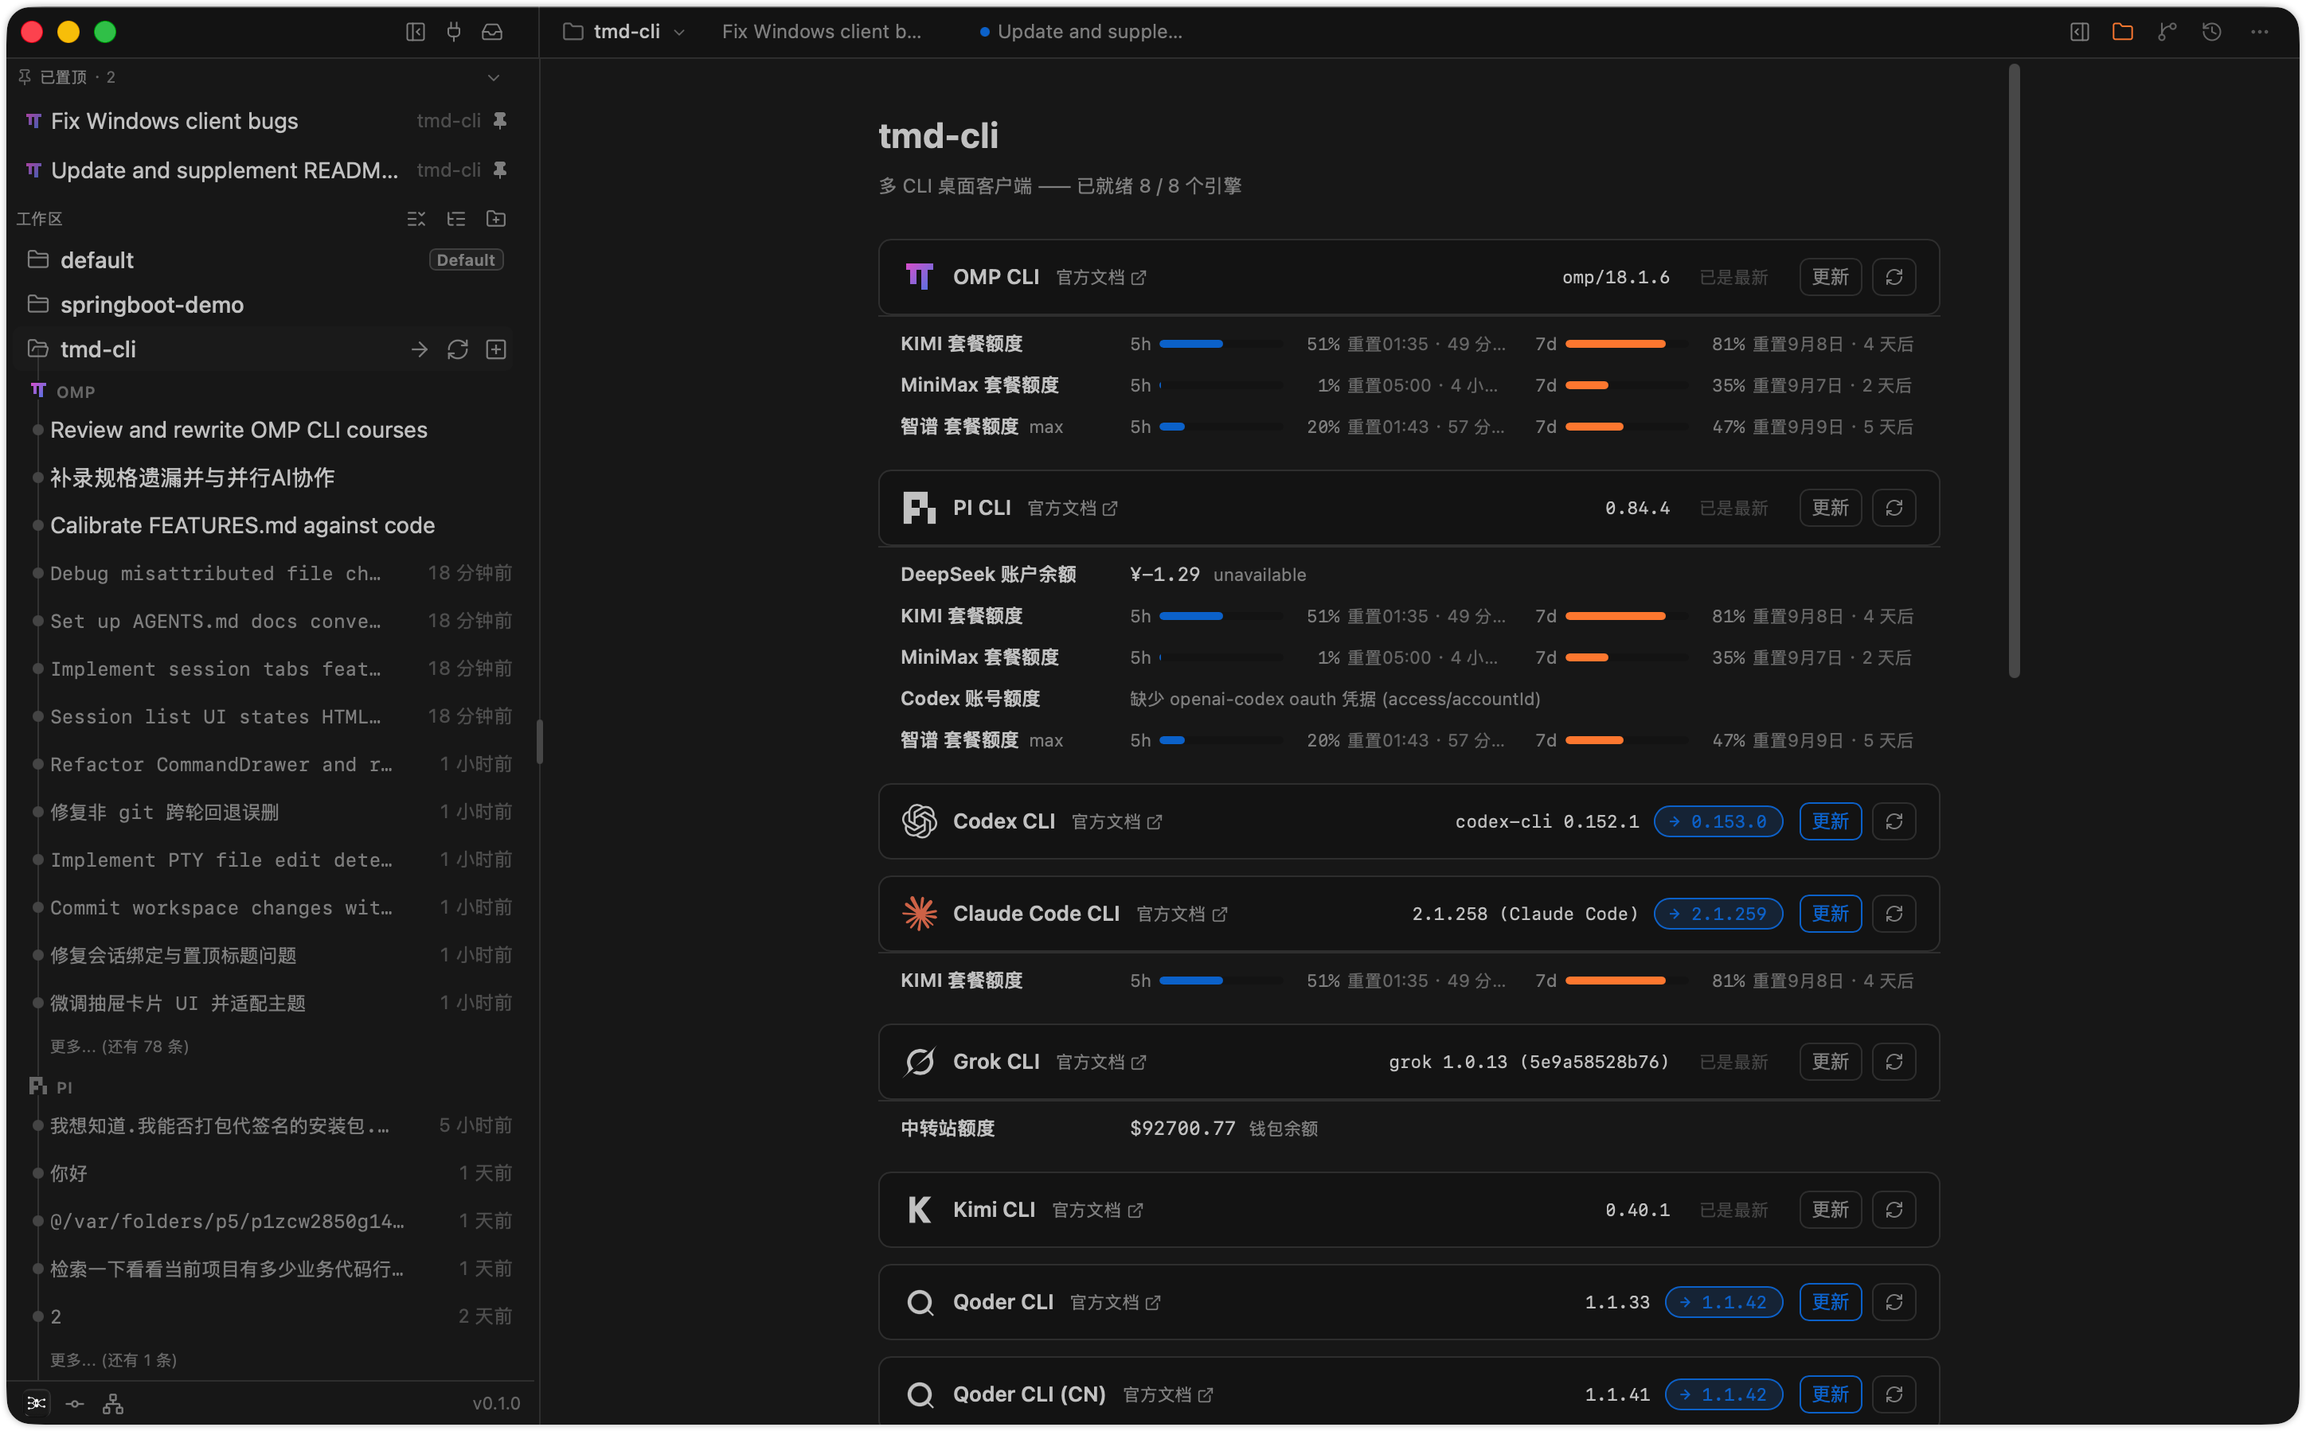
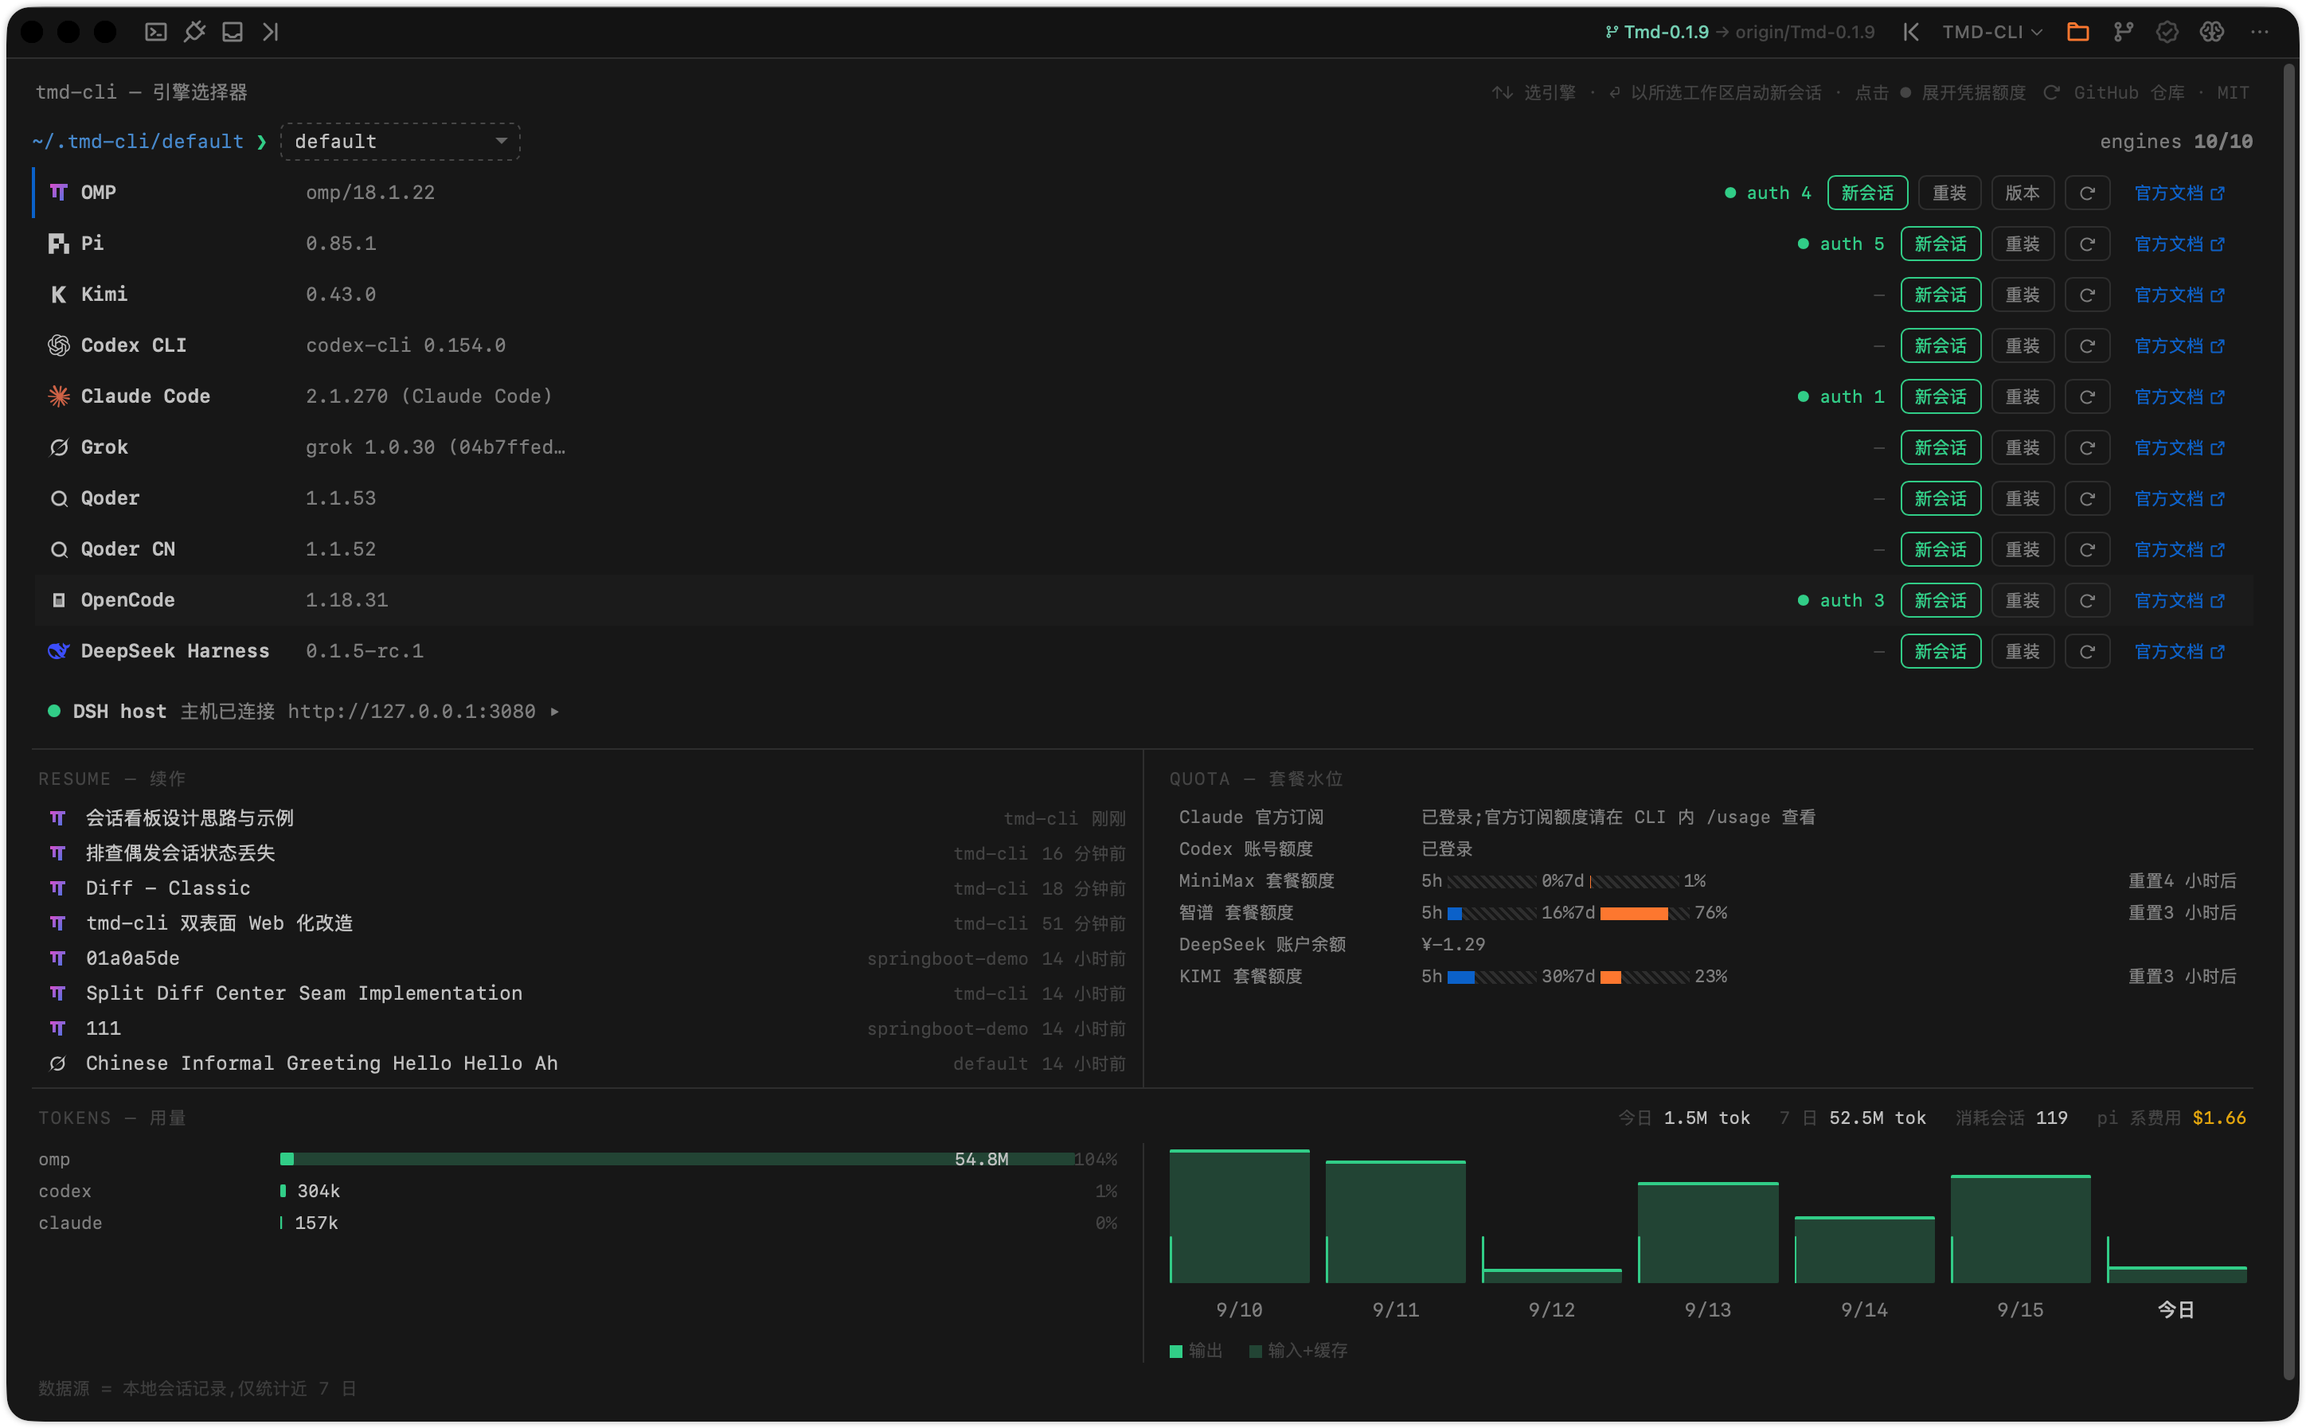
docs(readme): 欢迎页改版同步引擎选择器描述,FEATURES 补校与新截图入库

diff --git a/README_EN.md b/README_EN.md
@@ -59,7 +59,7 @@ In one sentence: **CLI output is presented as-is; the input side gets the rich e
 
 ![Per-CLI configuration](docs/images/screenshot-cli-config.png)
 
-**Welcome page** — engine cards (CLI probe / version check with one-click update / official docs links) + multi-provider quota overview
+**Welcome page (engine selector)** — terminal-window layout: a workspace prompt row + full-action engine rows (version probe / credential ● quota expand / new session / reinstall / version rollback / official docs), footer with RESUME recent sessions / QUOTA plan levels / TOKENS 7-day usage
 
 ![Welcome page](docs/images/screenshot-welcome.png)
 
@@ -85,7 +85,7 @@ In one sentence: **CLI output is presented as-is; the input side gets the rich e
 - **First-class SSH sessions**: russh engine, output isomorphic with PTY sessions straight into the curtain (tab strip / buffer / pagination with zero divergence); the right rail hosts connection cards / local port forwarding (-L) / SFTP remote file tree; remote files open in editor tabs (mtime+size optimistic concurrent write-back); known_hosts trust cards, reconnect with backoff, HTTP CONNECT / SOCKS5 proxies; host book and `~/.ssh/config` import live in settings.
 - **WSL support (M1)**: dual form — local distros (UNC workspace + `wsl.exe` spawn wrapping) and remote Windows hosts over the SSH channel (b64 payloads); engine probes / remote history / status observation / `wslr://` read-only file channel; the Git panel and checkpoints degrade with explicit hints by kind, never silently.
 - **File tree & editor**: single-level lazy file tree + right-click write operations (new / rename / trash / reveal in Finder); CodeMirror 6 central tab editor (⌘S save, dirty marker, per-extension lazy language packs); file render profiles: images / PDF / spreadsheets (csv·xlsx) / docx (mammoth conversion + outline) / structured previews, binaries show a placeholder; file tab context menu and editor maximize toggle; Markdown preview (GFM + KaTeX math + Mermaid diagrams + outline popover + progressive rendering).
-- **Welcome page**: engine cards (CLI probe + one-click install with streaming logs + npm registry version check with one-click update), credential overview (logged-in providers and quotas), quick entry into recent sessions.
+- **Welcome page (engine selector)**: a terminal-window home shown when no session is active — ↑↓ picks an engine, ⏎ starts a new session in the selected workspace, clicking ● expands credential quotas; full-action engine rows (CLI probe + prerequisite gating, one-click install with streaming logs, npm registry version check with one-click update, version rollback menu with the latest 10 stable versions and pinned favorites, official docs links); three footer sections: RESUME (latest 8 disk sessions across all workspaces × installed CLIs, click to resume) / QUOTA (per-provider aggregated plan levels with reset countdown) / TOKENS (per-engine usage + 7-day chart, sourced from local session records).
 - **Built-in terminal**: one click in the header's left area spawns a local default shell session (kind=shell, the third first-class session kind); curtain / tab strip / buffer / pagination fully reused; lifecycle owned by the kernel — unplugging the plugin never orphans sessions.
 - **Global shortcuts**: kernel command registry + per-scope dispatch (global / pty / composer), visual rebinding in settings (record / reset / conflict detection); macOS splits by ⌘ only, Ctrl+M/N/P/W etc. pass through to the PTY untampered.
 - **Memory coordination (memory-coordinator)**: integrates the Magic Context external shared memory store (`~/.magic-context` SQLite, shared across CLI hosts, the app never writes directly); right-rail Memory panel (FTS keyword search + per-category filters: project rules / architecture / constraints / config values) + status-bar Memory pill + console central tab; phase-two auto-distillation is opt-in.
@@ -191,7 +191,7 @@ Issues and PRs welcome:
 
 ## Current status
 
-Landed: plugin host & plugin market (27 registered plugins: 10 CLI engines + 13 UI features + 3 core + local plugin loader), ten CLI profiles (omp/pi/kimi/codex/claude/grok/qoder/qoder-cn/dsh/opencode) + first-class SSH sessions (russh) + built-in terminal (kind=shell), full PTY lifecycle & rotating session output logs with pagination, xterm curtain, workspace FLUX timeline session list (breathing lights/status labels/pinning/budget pagination/custom groups), top session tab strip with tile display, full composer (triggers/drag-drop/screenshots/command drawer v3/message anchor bar/quota/bracketed-paste, completions sourced from the CLIs themselves), agent/prompt asset library (!! / ## consumption), per-CLI configuration (visual editing of CLI config files, model role routing / wall-hit fallback chains), local plugins (~/.tmd-cli/plugins/ hot-load / build via conversation / version rollback), Ask confirmation detection (byte-stream + screen-state dual channel) with dual sounds, full right-rail Git panel (diff/branch/graph history/commit diff central tabs (dual-pane)/remote fetch/pull/push/three-zone drag-select batch ops & untracked deletion), file tree + CodeMirror editor + file render profiles (images/PDF/spreadsheets/docx/structured) + Markdown preview, file tab context menu & editor maximize, checkpoints (ledger: dual attribution/revert/apply/undo/shadow object store), theme engine (31 VS Code presets), global UI font size & zoom, network proxy, welcome engine cards & credential overview, read-only session status bar, global shortcuts with visual rebinding, version popover with auto-update, memory coordination (Memory panel with FTS search / pill / console), branch context menu & remote operation dialogs, session tab context menu, WSL support (local UNC + remote SSH host M1: connect/sessions/history/status/read-only file channel), workspace wallpaper (local gallery + fluid shader, surface-token punch-through & translucent curtain), omp disk-session prewarm takeover for instant open, dsh streaming session output.
+Landed: plugin host & plugin market (27 registered plugins: 10 CLI engines + 13 UI features + 3 core + local plugin loader), ten CLI profiles (omp/pi/kimi/codex/claude/grok/qoder/qoder-cn/dsh/opencode) + first-class SSH sessions (russh) + built-in terminal (kind=shell), full PTY lifecycle & rotating session output logs with pagination, xterm curtain, workspace FLUX timeline session list (breathing lights/status labels/pinning/budget pagination/custom groups), top session tab strip with tile display, full composer (triggers/drag-drop/screenshots/command drawer v3/message anchor bar/quota/bracketed-paste, completions sourced from the CLIs themselves), agent/prompt asset library (!! / ## consumption), per-CLI configuration (visual editing of CLI config files, model role routing / wall-hit fallback chains), local plugins (~/.tmd-cli/plugins/ hot-load / build via conversation / version rollback), Ask confirmation detection (byte-stream + screen-state dual channel) with dual sounds, full right-rail Git panel (diff/branch/graph history/commit diff central tabs (dual-pane)/remote fetch/pull/push/three-zone drag-select batch ops & untracked deletion), file tree + CodeMirror editor + file render profiles (images/PDF/spreadsheets/docx/structured) + Markdown preview, file tab context menu & editor maximize, checkpoints (ledger: dual attribution/revert/apply/undo/shadow object store), theme engine (31 VS Code presets), global UI font size & zoom, network proxy, welcome page engine selector (full-action rows / RESUME / QUOTA / TOKENS), read-only session status bar, global shortcuts with visual rebinding, version popover with auto-update, memory coordination (Memory panel with FTS search / pill / console), branch context menu & remote operation dialogs, session tab context menu, WSL support (local UNC + remote SSH host M1: connect/sessions/history/status/read-only file channel), workspace wallpaper (local gallery + fluid shader, surface-token punch-through & translucent curtain), omp disk-session prewarm takeover for instant open, dsh streaming session output.
 
 In progress: command drawer on-device acceptance (5 `[V]` items left, openspec/changes/composer-command-drawer) and CLI interactive compatibility verification; the git "create PR" workflow is being implemented (spec: docs/superpowers/specs/2026-09-15-git-create-pr-design.md); all other change contracts are archived under `openspec/changes/archive/`.
 

diff --git a/docs/FEATURES.md b/docs/FEATURES.md
@@ -15,6 +15,7 @@
 > 2026-09-10 0.1.4 补校:本地插件系统(~/.tmd-cli/plugins 磁盘装载、对话即变热加载、SHA-256 信任闸 + API 纪元闸、版本历史回退)与插排页本机插件独立成排;checkpoints 工作区外写入事件入账;插件计数 22→23(10 engine / 9 feature / 3 core / 1 local)。
 > 2026-09-11 会话 tab 平铺显示 + 平铺广播开关:右键菜单全局开关(参照 codeg tile),打开的 tab 并排同屏点列即切,composer 喇叭开关开启后正常发送即广播到全部平铺幕布;横评广播插件实施后验收否决已整体拆除(spec 留档「已废弃」)。
 > 2026-09-12/13 补校:WSL 支持 M1、工作区壁纸(图库+流体)、应用内自动更新(updater 签名通道)、omp 历史会话预热秒开(onAcquired 早激活)、dsh 会话流式输出、Git 差异三区拖选批量与未跟踪删除、pull 分叉 rebase 兜底、回首页⇄回会话 toggle、欢迎页 SWR 缓存与手动全量刷新;插件计数 23→27(10 engine / 13 feature / 3 core / 1 local)。
+> 2026-09-16 欢迎页改版补校:终端窗体造型引擎选择器(标题条 / prompt 行工作区选择 / 键盘 ↑↓⏎)、引擎全动作行(凭据 ● 展开额度 / 新会话 / 安装更新重装 / 单行重探 / 官方文档)、omp 版本回退菜单(最新 10 个稳定版 + 收藏钉版)、前置依赖门控、页脚 RESUME(全工作区倒序 8 条)/ QUOTA(供应商聚合 + 重置倒计时)/ TOKENS(本地 usage 聚合 + 近 7 日双段柱)。
 
 ## 工作区会话
 
@@ -312,16 +313,19 @@
 
 ## 欢迎页
 
-- 引擎卡:CLI 探针(found/path/version,8s 超时)+ 一键安装(npm -g / claude native,流式日志保留尾部 200 行,300s 超时,成功自动重探)
-- 版本检查:引擎卡查 npm registry 最新版(5 分钟缓存),落后显示「→ 最新版」一键更新
-- 引擎卡附件:官方文档外链(docsUrl 缺失不渲染)、已是最新徽标、单卡重新探针按钮(探针/安装中禁用)
-- 欢迎页脚注:GitHub 仓库链接(系统浏览器打开)+ MIT 徽标
-- 引擎卡仅展示已注册(未拔出)的 CLI 引擎,首屏显示已就绪计数
-- 欢迎页数据 SWR 缓存常驻层化:标题条「全量刷新」一键重扫(带动页脚 RESUME 与 TOKENS 重扫)
+- 终端窗体造型引擎选择器(无活跃 session 的中央幕布首页):标题条「tmd-cli — 引擎选择器」+ 键盘交互提示 + 手动全量刷新(探针落 loading 可见,最新版/凭据/RESUME/TOKENS 静默续拉)+ 右侧「GitHub 仓库 · MIT」链接(系统浏览器打开)
+- prompt 行:工作区选择下拉(`~/.tmd-cli/<名称>`,⏎ 以所选工作区启动游标引擎新会话)+ 右侧 engines N/N 已就绪计数
+- 键盘:↑↓ 移游标选引擎、⏎ 启动新会话(组件局部状态,不进命令注册表)
+- 引擎全动作行 ×N:仅展示已注册(未拔出)的 CLI 引擎;版本探针(found/path/version,8s 超时)+ 凭据 ● 点击展开额度详情 + 新会话 + 安装/更新/重装一键流(npm -g / claude native,流式日志保留尾部 200 行,300s 超时,成功自动重探)+ 单行重新探针 + 官方文档外链(docsUrl 缺失不渲染)
+- 前置依赖探针:requires 声明的依赖(如 bun)未就位时,该引擎安装/更新按钮门控
+- 版本检查:npm registry 最新版(5 分钟 TTL 缓存,失败不缓存下次重试),落后显示一键更新;omp 版本菜单 = 最新 10 个稳定版 + 收藏(settings.engineVersionFavs)+ command 通道钉版
+- 欢迎页数据 SWR 缓存常驻层化:回首页不自动重拉,标题条「全量刷新」为唯一手动入口(带动页脚 RESUME 与 TOKENS 重扫)
 - 凭据盘点:已登录供应商凭据与额度一览(覆盖 omp/pi/codex/claude/grok/opencode,读各 CLI 本地凭据文件;kimi/qoder 未覆盖);查不到额度显示「已登录」不报错
-- dsh 引擎(DeepSeek Harness,第 10 个 CLI 引擎):首页引擎卡下方连接引导面板(kernel/homePanels 注册表),host:port 连接 + host 探针(quota_fetch 通道 POST describe)+ 启停自有会话(单实例闸,EADDRINUSE 防撞)+ 自定义 dsh 路径 + 自动启动(默认开,进首页且 host 未运行且二进制可用才拉,每应用运行一次闸);连接设置折叠头带摘要
+- dsh 引擎(DeepSeek Harness,第 10 个 CLI 引擎):首页引擎行下方连接引导面板(kernel/homePanels 注册表),host:port 连接 + host 探针(quota_fetch 通道 POST describe)+ 启停自有会话(单实例闸,EADDRINUSE 防撞)+ 自定义 dsh 路径 + 自动启动(默认开,进首页且 host 未运行且二进制可用才拉,每应用运行一次闸);连接设置折叠头带摘要
 - dsh PTY 适配器:会话即 host(`dsh web --host --port`),适配器脚本落盘 `~/.tmd-cli/adapters/dsh`(内容戳变化全量重写,清场删除在 fs 白名单内);会话内对话 / 审批提问卡 / 底栏 footer 走 host-RPC 第二客户端;`~/.dsh/sessions` 为 zstd 压缩流,fs 原语不可读;resume 经 spawnTransform 翻成适配器 `--session-id`,会话流式输出(follow 订阅 assistantStream,正文与思考逐 delta 到达,durable 投影按流式标记去重防双渲染);listSessions 不声明,删除走删盘通路
-- 最近会话:磁盘最近会话快速进入,按工作区分组每区最多 5 条,扫描失败静默跳过
+- 页脚 RESUME:全工作区 × 已装 CLI 磁盘会话时间倒序前 8 条,点击直接续上(openDiskSession);扫描失败静默跳过
+- 页脚 QUOTA:凭据盘点按供应商 title 去重聚合套餐水位(单引擎查询失败不污染汇总),用量条 + 重置倒计时,90% 告警线
+- TOKENS 用量区:本地 JSONL usage 聚合,纯本地零网络——左列按引擎用量行(名/占比条/量/占比),右列近 7 日趋势双段柱(输入满高 + 输出贴底),汇总今日/近 7 日 tok、活跃会话与 pi 系费用
 
 ## SSH 远程
 
